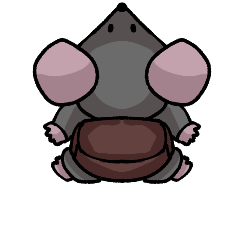
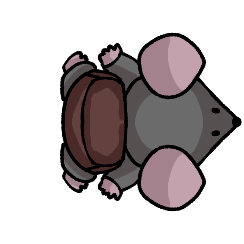
Add files via upload

diff --git a/src/main.cpp b/src/main.cpp
@@ -1,13 +1,16 @@
 
 #include "../include/player.hpp"
 #include "raylib.h"
-#include <math.h>
+#include "../include/baby.hpp"
+#include <vector>
+#include <raymath.h>
 
 //------------------------------------------------------------------------------------------
 // Types and Structures Definition
 //------------------------------------------------------------------------------------------
 typedef enum GameScreen { LOGO = 0, TITLE, GAMEPLAY, ENDING } GameScreen;
-
+typedef enum Level { HOME = 0, SEWER, HOMES, TAVERN, FACTORY } Level;
+typedef enum MomAnim { Idle = 0, LeftStep = 1, Reach = 2, RightStep = 3, Throw = 4 } MomAnim;
 //------------------------------------------------------------------------------------------
 // Main entry point
 //------------------------------------------------------------------------------------------
@@ -25,28 +28,48 @@ int main()
 
     InitWindow(screenWidth, screenHeight, "Scavenge");
 
+    InitAudioDevice();
+
     GameScreen currentScreen = LOGO;
+    Level currentLevel = HOME;
+    MomAnim animController = Idle;
 
     RenderTexture2D target = LoadRenderTexture(virtualScreenWidth, virtualScreenHeight);
 
     Texture2D TitleScreen = LoadTexture("../assets/gfx/TitleScreen.png");
     /* MomRat Textures*/
-    Texture2D MomRatIdle = LoadTexture("../assets/gfx/ThyRat/MomRatIdle.png");
-    Texture2D MomRatLeftstep = LoadTexture("../assets/gfx/ThyRat/MomRatLeftstep.png");
-    Texture2D MomRatRightstep = LoadTexture("../assets/gfx/ThyRat/MomRatRightstep.png");
-    Texture2D MomRatReach = LoadTexture("../assets/gfx/ThyRat/MomRatReach.png");
-    Texture2D MomRatThrow = LoadTexture("../assets/gfx/ThyRat/MomRatThrow.png");
+    Texture2D MomRat = LoadTexture("../assets/gfx/ThyRat/animMomRat.png");
     // ------
 
     // TODO: Initialize all required variables and load all required data here!
     /* Variables */
-    player mainPlayer{};
+    player mainPlayer;
 
     mainPlayer.setRadius(50);
     mainPlayer.setPosition(50, 50);
-    mainPlayer.SetTexture(MomRatIdle);
-    mainPlayer.SetDir(0);
-    mainPlayer.SetSpeed(2);
+    mainPlayer.SetTexture(MomRat);
+    mainPlayer.SetAmmo(10);
+    mainPlayer.SetDir(90);
+    mainPlayer.SetSpeed(5);
+
+    int MomframeWidth = mainPlayer.GetTexture().width/5;
+    int MomframeHeight = mainPlayer.GetTexture().height;
+
+    Camera2D camera = { 0 };
+    camera.offset = (Vector2){ screenWidth/2.0f, screenHeight/2.0f };
+    camera.target = (Vector2){ mainPlayer.getPositionX() + 20.0f, mainPlayer.getPositionY() + 20.0f };
+    camera.rotation = 0.0f;
+    camera.zoom = 0.5f;
+
+    Music HomesSfx = LoadMusicStream("assets/sfx/Homes.mp3");
+    Music SewersSfx = LoadMusicStream("assets/sfx/Sewers.mp3");
+    Music TavernSfx = LoadMusicStream("assets/sfx/Tavern.mp3");
+
+    std::vector<baby> babies{};
+
+    int tick = 0, tickInFps = 0, lastShotTick = 0;
+    int ReloadCoolDown = 40;
+    float fireDelay = 5; //in ticks, every frame is 1 tick
 
     int framesCounter = 0;          // Useful to count frames
 
@@ -58,6 +81,9 @@ int main()
         {
         // Update
         //----------------------------------------------------------------------------------
+        Vector2 Mice = GetScreenToWorld2D(GetMousePosition(), camera);
+        tick++;
+
         switch(currentScreen)
         {
             case LOGO:
@@ -65,7 +91,7 @@ int main()
                 framesCounter++;    // Count frames
 
                 // Wait for 4 seconds (240 frames) before jumping to TITLE screen
-                if (framesCounter > 240)
+                if (framesCounter > /*240*/ 1)
                 {
                     currentScreen = TITLE;
                 }
@@ -78,14 +104,35 @@ int main()
                 if (IsKeyPressed(KEY_ENTER) || IsGestureDetected(GESTURE_TAP))
                 {
                     currentScreen = GAMEPLAY;
+                    framesCounter = 0;
                 }
             } break;
             case GAMEPLAY:
             {
-                // TODO: Update GAMEPLAY screen variables here!
-                mainPlayer.GetInput();
-                mainPlayer.SetDir(atan2(GetMouseY(), GetMouseX()) * DEG2RAD);
 
+                animController = Idle;
+                // TODO: Update GAMEPLAY screen variables here!
+                if (mainPlayer.GetInput())
+                {
+                    framesCounter++;
+                    if (framesCounter < 15)
+                        animController = LeftStep;
+                    else if (framesCounter < 30)
+                        animController = RightStep;
+                    else
+                        framesCounter = 0;
+                }
+                if (IsMouseButtonDown(0))
+                    if (tick > lastShotTick + fireDelay ) {
+                        mainPlayer.GetAmmo();
+                        if (ReloadCoolDown == 40) {
+                            lastShotTick = tick;
+                            babies.push_back({mainPlayer.getPositionX(), mainPlayer.getPositionY(), mainPlayer.GetDir()});
+                        }
+                    }
+                mainPlayer.SetDir(atan2(Mice.y - mainPlayer.getPositionY(), Mice.x - mainPlayer.getPositionX()) * RAD2DEG);
+
+                //GetWorldToScreen2D
             } break;
             case ENDING:
             {
@@ -123,7 +170,28 @@ int main()
             } break;
             case GAMEPLAY:
             {
-                DrawTextureEx(mainPlayer.GetTexture(), Vector2{(float)mainPlayer.getPositionX(), (float)mainPlayer.getPositionY()}, (int)mainPlayer.GetDir(), 1.0f, WHITE);
+                BeginMode2D(camera);
+                Rectangle sourceRec = { (float)MomframeWidth * (float)animController, 0.0f, (float)MomframeWidth, (float)MomframeHeight };
+
+                // Origin of the texture (rotation/scale point), it's relative to destination rectangle size
+                Vector2 origin = { (float)MomframeWidth/2, (float)MomframeHeight/2 };
+
+                switch (currentLevel)
+                {
+                    case HOME:
+
+                        DrawTexturePro(mainPlayer.GetTexture(), sourceRec, Rectangle{ (float)(mainPlayer.getPositionX()), (float)(mainPlayer.getPositionY()), (float)MomframeWidth, (float)MomframeHeight }, origin, (float)mainPlayer.GetDir(), WHITE);
+
+                        break;
+                    case SEWER:
+                        break;
+                    case HOMES:
+                        break;
+                    case FACTORY:
+                        break;
+                }
+
+                EndMode2D();
             } break;
             case ENDING:
             {

diff --git a/src/player.cpp b/src/player.cpp
@@ -3,14 +3,17 @@
 //
 
 #include "../include/player.hpp"
+
 #include <raylib.h>
 
 
-void player::GetInput() {
-    if (IsKeyDown(KEY_RIGHT)|| IsKeyDown(KEY_D)) player::posX += player::speed;
-    if (IsKeyDown(KEY_LEFT)|| IsKeyDown(KEY_A)) player::posX -= player::speed;
-    if (IsKeyDown(KEY_UP)|| IsKeyDown(KEY_W)) player::posY -= player::speed;
-    if (IsKeyDown(KEY_DOWN) || IsKeyDown(KEY_S)) player::posY += player::speed;
+bool player::GetInput() {
+    bool on = false;
+    if (IsKeyDown(KEY_RIGHT)|| IsKeyDown(KEY_D)){ player::posX += player::speed; on = true; }
+    if (IsKeyDown(KEY_LEFT)|| IsKeyDown(KEY_A)){ player::posX -= player::speed; on = true; }
+    if (IsKeyDown(KEY_UP)|| IsKeyDown(KEY_W)){ player::posY -= player::speed; on = true; }
+    if (IsKeyDown(KEY_DOWN) || IsKeyDown(KEY_S)){ player::posY += player::speed; on = true; }
+    return on;
 }
 void player::SetAmmo(int Ammo) {
     player::ammo = Ammo;
@@ -34,6 +37,10 @@ void player::SetDir(int Dir) {
 
 void player::SetSpeed(int Speed) {
     player::speed = Speed;
+}
+
+int player::GetAmmo() const {
+    return player::ammo;
 }
 
 

diff --git a/include/player.hpp b/include/player.hpp
@@ -14,12 +14,13 @@ protected:
     int ammo, dir, speed;
     Texture2D CurrentTexture;
 public:
-    void GetInput();
+    bool GetInput();
     void SetAmmo(int Ammo);
     void SetDir(int Dir);
     void SetTexture(Texture2D tex);
     void SetSpeed(int Speed);
     int GetDir();
+    int GetAmmo() const;
     Texture2D GetTexture();
 };
 

diff --git a/include/baby.hpp b/include/baby.hpp
@@ -1,0 +1,21 @@
+//
+// Created by Adam on 11/21/2021.
+//
+
+#ifndef SCAVENGE_BABY_HPP
+#define SCAVENGE_BABY_HPP
+
+
+class baby {
+protected:
+    float x;
+    float y;
+    int rot;
+public:
+    float GetPosX() const;
+    float GetPosY() const;
+    int GetRot() const;
+};
+
+
+#endif //SCAVENGE_BABY_HPP

diff --git a/src/baby.cpp b/src/baby.cpp
@@ -1,0 +1,17 @@
+//
+// Created by Adam on 11/21/2021.
+//
+
+#include "../include/baby.hpp"
+
+float baby::GetPosX() const {
+    return baby::x;
+}
+
+float baby::GetPosY() const {
+    return baby::y;
+}
+
+int baby::GetRot() const {
+    return baby::rot;
+}

diff --git a/include/main.hpp b/include/main.hpp
@@ -1,2 +1,2 @@
 #pragma once
-#include <raylib.h>
+#include <raylib.h>qqq
